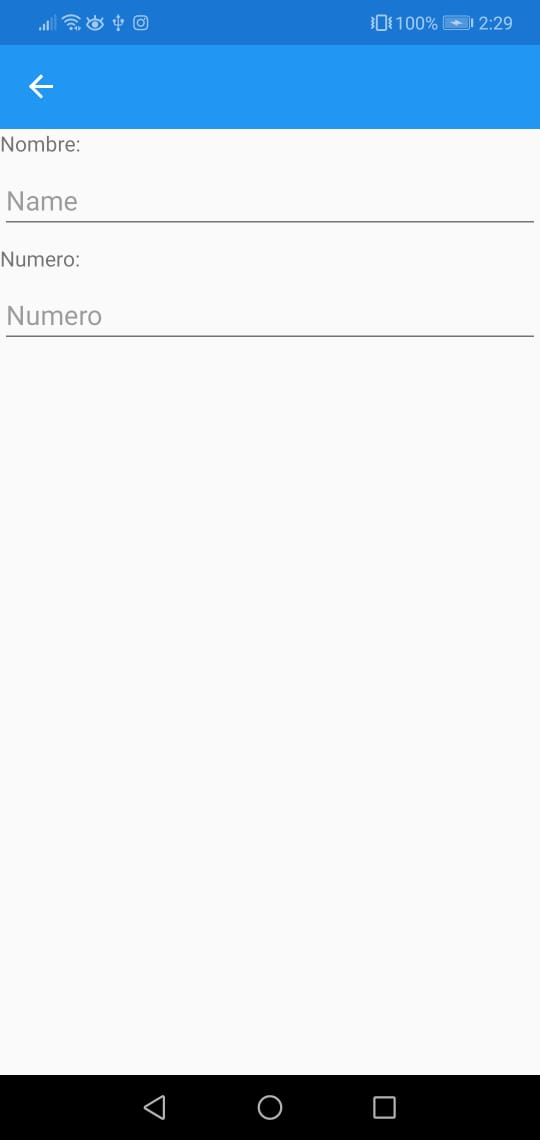
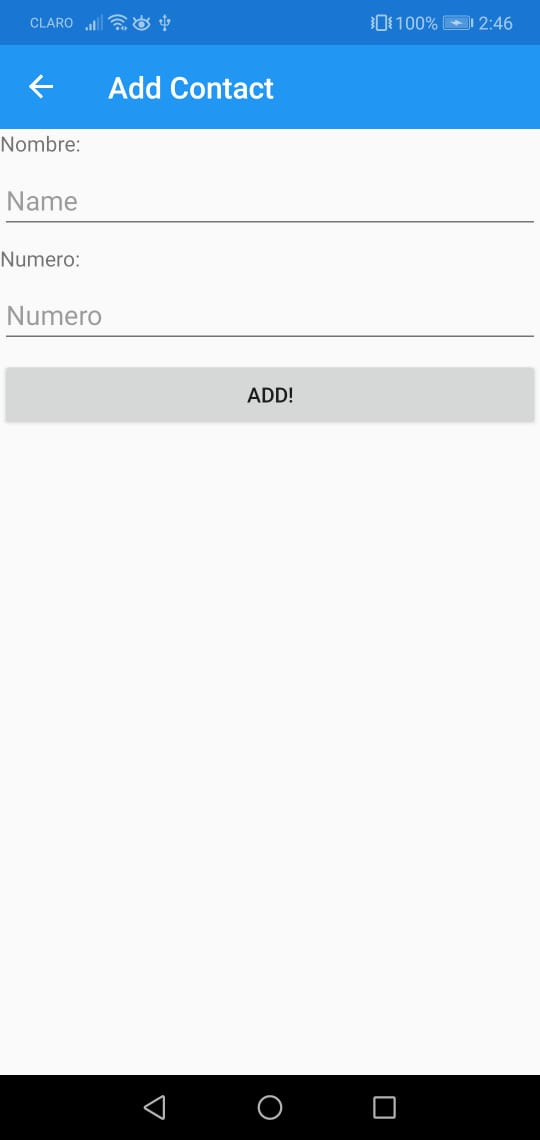
Changes to AddPage

diff --git a/Tarea01/Tarea01/Views/AddContactPage.xaml b/Tarea01/Tarea01/Views/AddContactPage.xaml
@@ -17,6 +17,9 @@
             <Entry Placeholder="Numero"
                    Keyboard="Telephone"
                    Text="{Binding Contacts.Number}"/>
+            <Button Text="Add!"
+                    
+            />
         </StackLayout>
     </ContentPage.Content>
 </ContentPage>

diff --git a/Tarea01/Tarea01/ViewModels/LoggedUserPageViewModel.cs b/Tarea01/Tarea01/ViewModels/LoggedUserPageViewModel.cs
@@ -25,7 +25,7 @@ namespace Tarea01.ViewModels
                 Contact.Add(Contacts);
             });
 
-            Contact.Add(new Contacts() { Name = "Emilio" , Number= "8096239275"}) ;
+            //Contact.Add(new Contacts() { Name = "Emilio" , Number= "8096239275"}) ;
             AddCommand = new Command(async () =>
             {
                 await App.Current.MainPage.Navigation.PushAsync(new AddContactPage());
